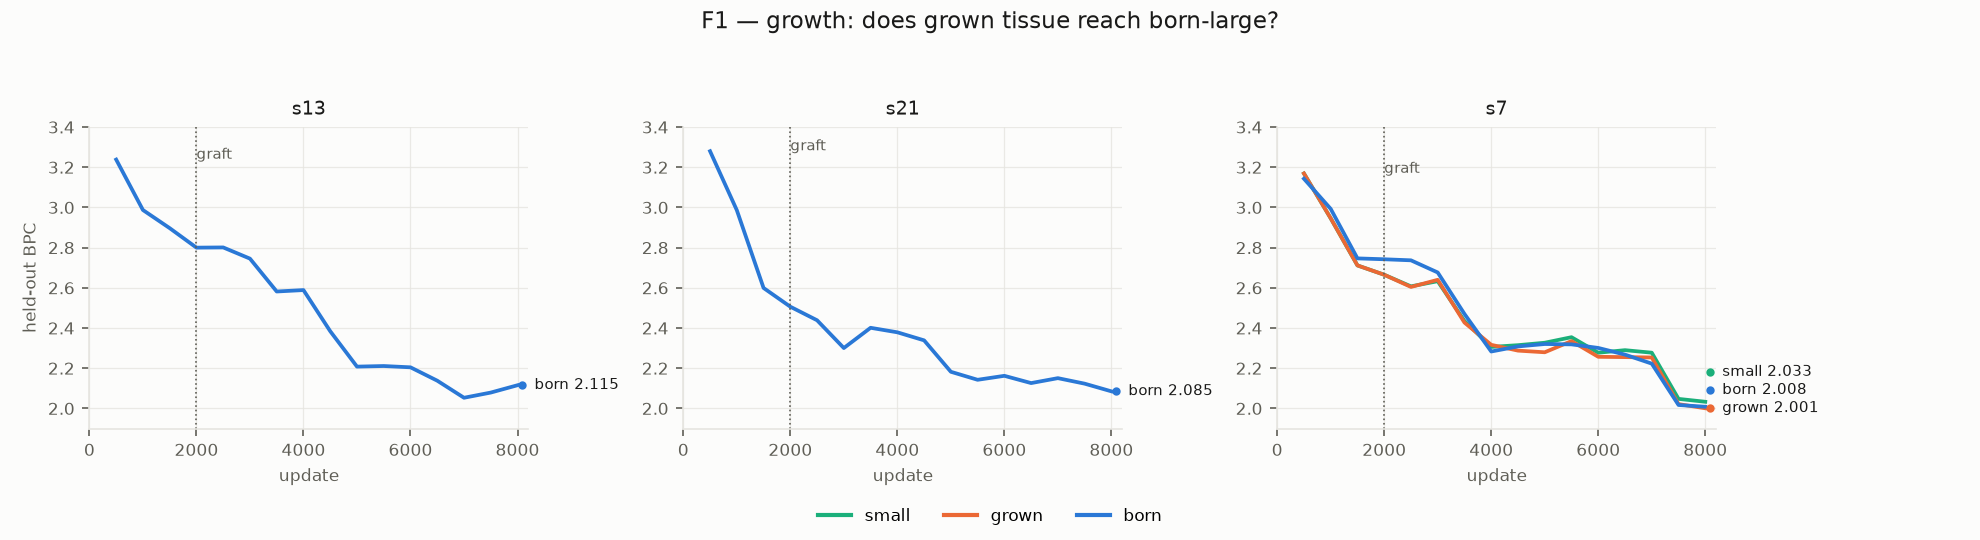
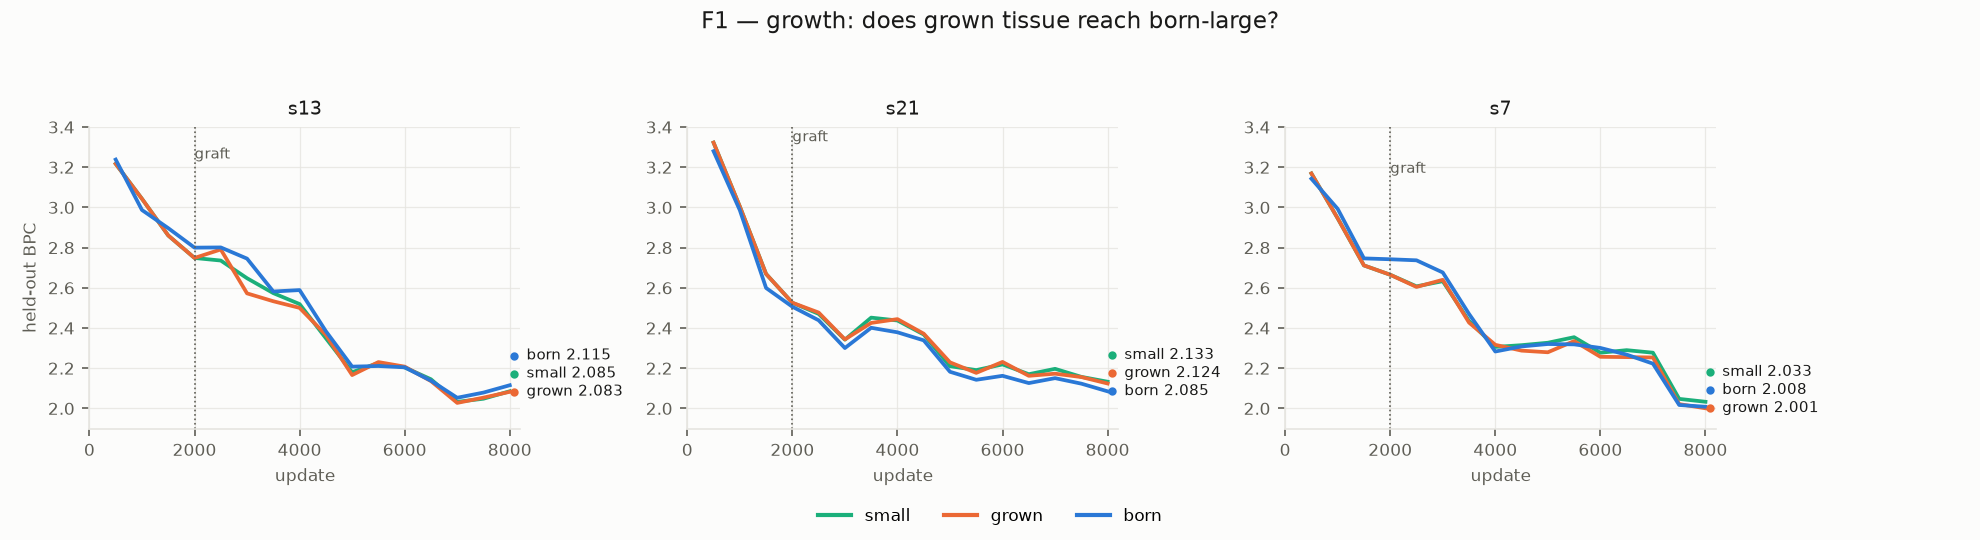
F1 verdict: growth mechanism PASSES, capacity claim FAILS — sublinear confirmed
6 run arms + 3 copied born arms, zero skipped updates.

  mean final BPC: small 2.0838, grown 2.0691, born 2.0695

S2's mechanism claim passes cleanly: transition excess +0.020 mean (bar
+0.05), grown reaches born-large exactly (gap -0.0004) — grafting mid-stream
costs nothing and forfeits nothing. S2's capability claim fails: grown beats
small by only 0.015 (bar 0.05); recruitment probe +0.035 final with early ~=
final (added cells contribute a small, flat amount from the graft onward).
4x internal tissue buys 0.014 BPC however acquired. Freeze +0.14..+0.41 at
every size (tissue works); shuffle ~0.02 at every size (never
differentiates).

The amended sublinear prediction is confirmed about as decisively as it can
be. The binding constraint is differentiation, not capacity — F5's thesis
now has its quantitative motivation. Caveat attached: all numbers are
8k-budget-bound (F7 running).

Also: F1 figure regenerated with all seeds (the three arms are visually one
curve); F7 confirmed running on the 4090.

diff --git a/fable/experiments/f1-growth.md b/fable/experiments/f1-growth.md
@@ -1,6 +1,6 @@
 # F1: runtime growth on a substrate where capacity pays (preregistered 2026-07-30)
 
-> **STATUS: RUNNING (2026-07-30).** Briefly blocked earlier the same day on
+> **STATUS: COMPLETE (2026-07-30) — results at end of file.** Briefly blocked earlier the same day on
 > a misreading of F0's shuffle result, then unblocked by measurement.
 >
 > The block claimed internal tissue was near-inert, citing shuffle-internal
@@ -27,7 +27,7 @@
 > differentiate). For `grown`, the existing recruitment probe additionally
 > freezes *only the added cells*, at the graft and at the end.
 
-*Original preregistration follows, unchanged.*
+*Original preregistration follows, unchanged. Results at the end of the file.*
 
 ## Question
 
@@ -94,3 +94,63 @@ Measured:
 bash fable/run_f1.sh
 python3 -m fable.summarize --root fable/runs/f1 --out fable/runs/f1/LADDER.md
 ```
+
+---
+
+# RESULTS (2026-07-30, 6 run arms + 3 copied born arms, zero skipped updates)
+
+Final held-out BPC:
+
+| Seed | small (80c) | grown (80→128) | born (128c) |
+|-----:|------------:|---------------:|------------:|
+| 7 | 2.0331 | 2.0007 | 2.0082 |
+| 13 | 2.0854 | 2.0826 | 2.1154 |
+| 21 | 2.1328 | 2.1240 | 2.0850 |
+| **mean** | **2.0838** | **2.0691** | **2.0695** |
+
+Graft mechanics (grown, u2000→u2500, small as shared-trend control):
+transition excess −0.003 / +0.055 / +0.007 — mean **+0.020**, well under the
++0.05 bar. Recruitment probe (freeze the 48 added cells): final Δ +0.047 /
++0.040 / +0.017 (mean **+0.035**); just-after-graft Δ +0.039 / +0.035 /
+−0.002.
+
+Tissue probes, every arm: freeze-internal +0.14…+0.41 (the tissue works, at
+every size); shuffle-internal +0.015…+0.030 (undifferentiated, at every
+size).
+
+## Verdict against the preregistered bars
+
+| Bar | Result |
+|---|---|
+| Pass: grown beats small by ≥ 0.05 mean | **not met** (−0.015) |
+| Strong pass: grown within 0.03 of born | met (−0.0004 — grown ≈ born) |
+| Transition cost ≤ +0.05 | **met** (+0.020 mean) |
+| Recruitment: final ≥ 0.05, early < half of final | **not met** (+0.035 final; early ≈ final) |
+| Fail: graft destabilizes | did not occur |
+
+**S2's capability claim: FAIL. S2's mechanism claim: PASS.** And the amended
+prediction — sublinear scaling — confirmed about as decisively as it can be:
+
+1. **Growth is mechanically safe and complete.** Transition cost ≈ 0; the
+   grown organism is statistically indistinguishable from born-large by the
+   end (mean gap −0.0004). Grafting mid-stream costs nothing and forfeits
+   nothing. The machinery works.
+2. **The capacity it adds is nearly worthless at this task and budget.** 4×
+   the internal tissue buys 0.014 BPC however it is acquired (born−small =
+   −0.014, grown−small = −0.015). The added cells' contribution is small and
+   *flat from the moment of the graft* (+0.035 ≈ +0.024 early) — extra
+   interchangeable mean-field capacity, absorbed instantly, never
+   differentiated. Shuffle stays at ~0.02 in every arm at every size.
+3. This is the connectome's version of `dmon/stream`'s S2 result, now
+   properly attributable: there, growth was safe but the tissue did no work
+   (freeze would have shown ~0); here the tissue works (freeze +0.14…+0.41)
+   but does not *specialize*, so more of it averages instead of adding. The
+   binding constraint is **differentiation, not capacity** — the F5 thesis,
+   now with its quantitative motivation, and consistent with F0's flat
+   utilization trajectory and Max's diagnosis that the task never forces
+   information into the bulk (F6, running).
+
+Caveat that travels with all of this: F7 has since shown every 8k-update
+number is budget-bound (curves still falling at the horizon). If F7's
+long-horizon run surfaces late differentiation, point 2's "never" softens to
+"not within 8k updates."
